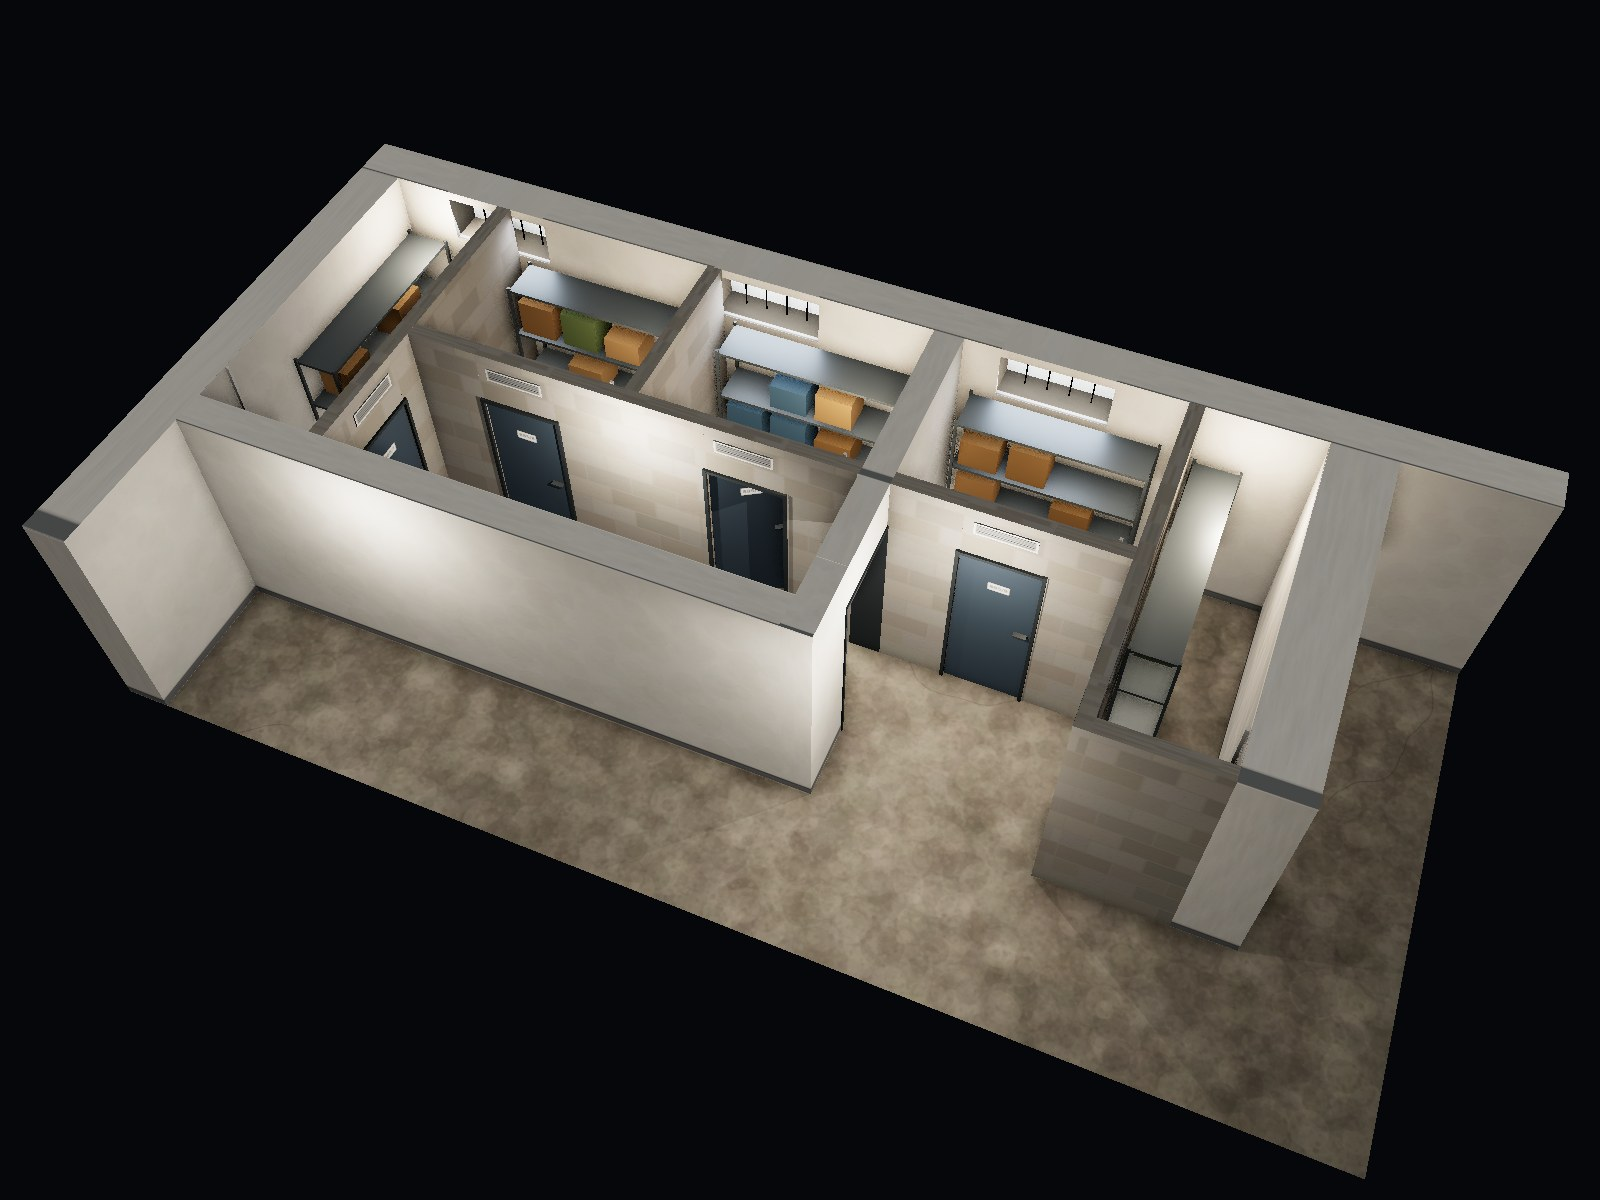
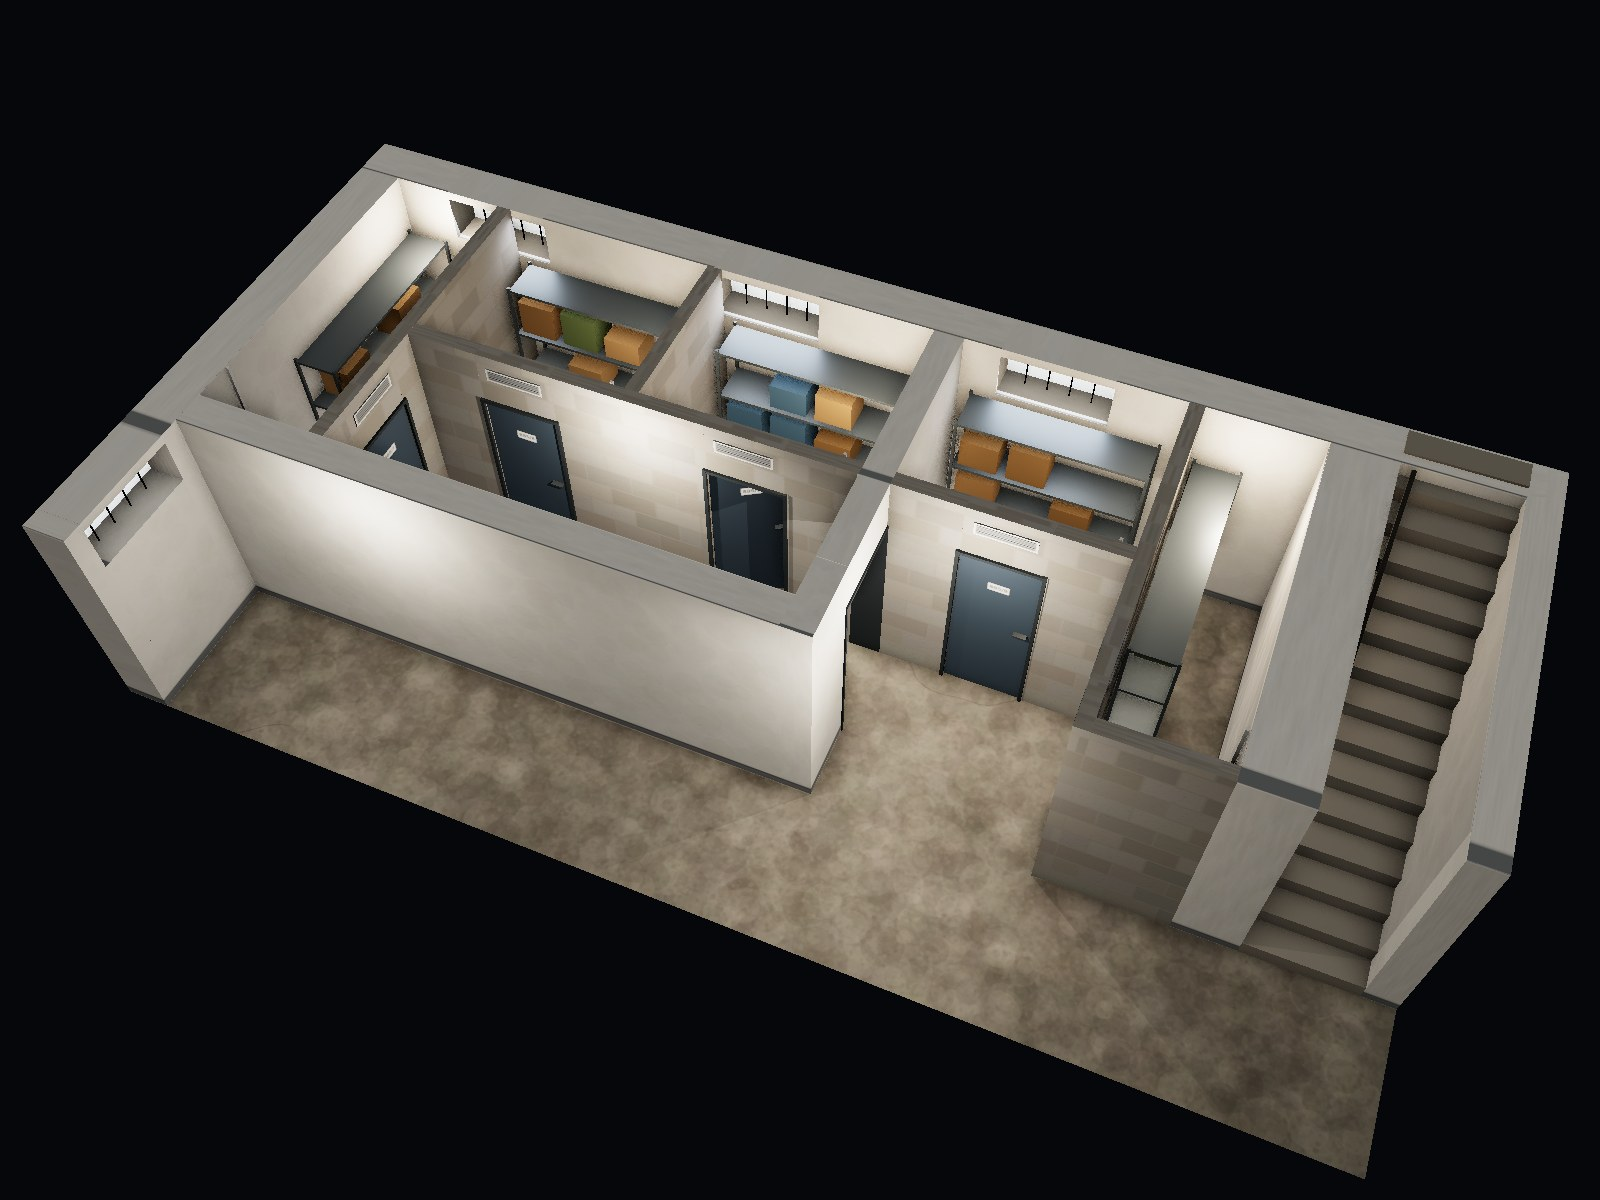
3D A1+A2: corridor C1 per Vizualizace kójí 2 (B1/B2 entrances, west window, stairs S1, new C1 view)
Claude-Session: https://claude.ai/code/session_01PwTnPep7yYfhi5YvdxRW3v

Changed region(s): [[0.7812, 0.3392, 1.0, 0.8633], [0.0, 0.3392, 0.125, 0.4625]]

diff --git a/vizualizace3d-a1a2.html b/vizualizace3d-a1a2.html
@@ -34,10 +34,11 @@
         <p><b>A1:</b> 885/1 (1,20 × 3,45 m), 885/6 a 885/8 (2,25 × 1,85 m) – všechny kolem 4,15 m². <b>A2:</b> 885/9 (2,20 × 1,85 m), 885/2 (1,15 × 3,65 m).</p>
         <p>Dřevěná příčka před A2 vybourána, přístup z chodby C1 otevřený v celé šířce 885/9 (2,20 m); do A1 průchodem 1,00 m bez dveří. Příčky z tvárnic 15 cm až ke stropu, dveře 0,80 m, nad dveřmi větrací mřížka 600 × 150 mm.</p>
         <p>Elektro podle Elektroinstalace 2: v každé kóji zásuvka 230 V (B16, vlastní elektroměr) a svítidlo LED, společné osvětlení přístupů a chodby s čidlem pohybu, kabelové lišty pod stropem z RS v A3.</p>
-        <p class="note">Vizualizace podle Návrhu cílového stavu 2 a přesného zaměření: A1 6,00 × 3,449 m, A2 3,50 × 3,80 m, chodba C1 1,55 m, světlá výška 2,60 m, okna 1,13 × 0,50 m s parapetem ve 2,00 m. Myší lze pohled otáčet a přibližovat.</p>
+        <p class="note">Vizualizace podle Návrhu cílového stavu 2 a přesného zaměření: A1 6,00 × 3,449 m, A2 3,50 × 3,80 m, chodba C1 1,55 m, světlá výška 2,60 m, okna 1,13 × 0,50 m s parapetem ve 2,00 m. Chodba C1 se vstupy do B1 a B2, oknem na západním konci a schodištěm S1. Myší lze pohled otáčet a přibližovat.</p>
         <div class="buttons">
             <button data-view="entry" class="active">Pohled od vstupu</button>
             <button data-view="a1">Přístup v A1</button>
+            <button data-view="c1">Chodba C1</button>
             <button data-view="cutaway">Řez shora</button>
             <a href="/">← Zpět na plánek</a>
         </div>
@@ -61,6 +62,7 @@
         const XEND = OX + A2W + 0.62 + 1.4;            // kus chodby za A2 (u schodiště)
         const WIN_SILL = 2.0, WIN_TOP = 2.5;           // okna 1,13 × 0,50 m, parapet 2,00 m
         const WINDOWS = [[0.60, 1.73], [3.67, 4.80], [OX + 0.38, OX + 1.51]];
+        const C1W = [4.01, 5.14];                      // okno na západním konci chodby C1
         const DOOR_W = 0.80, DOOR_H = 1.97;
 
         const params = new URLSearchParams(location.search);
@@ -214,13 +216,40 @@
         // ---------- Stávající stěny (omítka) ----------
         const T = 0.45;
         wall(-T, -T, XEND, 0, 'plaster', WINDOWS.map(([a, b]) => ({ a, b, y0: WIN_SILL, h: WIN_TOP })), { cut: false }); // severní obvodová s okny
-        wall(-T, 0, 0, C1Z + C1D, 'plaster');                                          // západní obvodová
+        wall(-T, 0, 0, C1Z + C1D, 'plaster', [{ a: C1W[0], b: C1W[1], y0: WIN_SILL, h: WIN_TOP }]); // západní obvodová, okno na konci C1
         wall(A1W, 0, OX, C1Z, 'plaster', [{ a: 2.0, b: 3.0, h: 2.0 }]);                // A1 | A2 (0,30 m) – průchod 1,00 m v místě současných dveří
         wall(0, D1, A1W, C1Z, 'plaster');                                              // A1 | C1 – nosná zeď 0,35 m
         // A2 | C1: dřevěná příčka vybourána, v šířce 885/9 (1,85 m) zcela otevřeno do chodby
         wall(OX + A2W, 0, OX + A2W + 0.62, C1Z, 'plaster');                            // A2 | schodiště (0,62 m)
-        wall(0, C1Z + C1D, XEND, C1Z + C1D + 0.3, 'plaster', [], { cut: true });       // jižní stěna chodby C1
+        // jižní stěna chodby C1 (0,78 m) se vstupy do B1 (0,90 m) a B2 (1,00 m)
+        wall(0, C1Z + C1D, XEND, C1Z + C1D + 0.78, 'plaster', [{ a: 0.90, b: 1.80, h: DOOR_H }, { a: 8.55, b: 9.55, h: 2.0 }], { cut: true });
+        // schodiště S1 (1,085 × 4,20 m) stoupající od chodby C1 k severu, zeď S1 | A3
+        const SX0 = OX + A2W + 0.62, SX1 = SX0 + 1.085;
+        wall(SX1, -T, XEND, C1Z, 'plaster');
+        const stepMat = std({ color: '#a39d93', roughness: 0.95 });
+        for (let i = 0; i < 15; i++) {
+            const top = (i + 1) * 0.175, z1 = C1Z - i * 0.28;
+            if (top > H + 0.3) break;
+            add(box(SX1 - SX0, top, 0.28), stepMat, (SX0 + SX1) / 2, top / 2, z1 - 0.14);
+        }
+        // madlo na západní stěně schodiště
+        const rail = add(box(0.04, 0.04, 3.4), std({ color: '#6d6a64', metalness: 0.5, roughness: 0.5 }), SX0 + 0.06, 0, C1Z - 1.9);
+        rail.rotation.x = Math.atan(0.175 / 0.28); rail.position.y = 0.9 + 1.9 * 0.175 / 0.28;
         wall(XEND, C1Z, XEND + PT, C1Z + C1D, 'plaster', [], { cut: true });
+        // dveře do B1 (stávající, zavřené) a mřížová vrata do B2
+        add(box(0.88, DOOR_H - 0.02, 0.04), std({ color: '#8a6a4a', roughness: 0.8 }), 1.35, DOOR_H / 2, C1Z + C1D + 0.06, { cut: true });
+        const gate = std({ color: '#3d4247', metalness: 0.6, roughness: 0.5 });
+        add(box(1.0, 2.0, 0.02), std({ color: '#1e2124', roughness: 1 }), 9.05, 1.0, C1Z + C1D + 0.7, { cast: false, cut: true });
+        for (let k = 0; k <= 8; k++) add(box(0.02, 1.96, 0.02), gate, 8.57 + k * 0.12, 0.98, C1Z + C1D + 0.06, { cut: true });
+        [0.05, 0.98, 1.95].forEach(y => add(box(0.98, 0.03, 0.03), gate, 9.05, y, C1Z + C1D + 0.06, { cut: true }));
+        // okno na západním konci C1 (stejné jako v A1, A2)
+        {
+            const w = C1W[1] - C1W[0], cz = (C1W[0] + C1W[1]) / 2, cy = (WIN_SILL + WIN_TOP) / 2;
+            const g = new THREE.Mesh(new THREE.PlaneGeometry(w, WIN_TOP - WIN_SILL), new THREE.MeshStandardMaterial({ color: '#dfe9e2', emissive: '#e8f0ff', emissiveIntensity: 1.4, roughness: 0.4 }));
+            g.position.set(-T + 0.08, cy, cz); g.rotation.y = Math.PI / 2; scene.add(g);
+            const bar = std({ color: '#2b2f33', metalness: 0.6, roughness: 0.5 });
+            for (let k = 1; k < 5; k++) add(box(0.012, WIN_TOP - WIN_SILL, 0.012), bar, -T + 0.2, cy, C1W[0] + k * w / 5);
+        }
         // okna: sklo s mříží
         WINDOWS.forEach(([a, b]) => {
             const w = b - a, cx = (a + b) / 2, cy = (WIN_SILL + WIN_TOP) / 2;
@@ -367,6 +396,7 @@
         controls.enableDamping = true;
         const VIEWS = {
             entry: { pos: [OX + 1.45, 1.6, 3.45], target: [OX - 1.5, 1.0, 2.5], fov: 80 },
+            c1: { pos: [XEND - 0.5, 1.6, C1Z + 0.8], target: [0, 1.2, C1Z + 0.8], fov: 70 },
             a1: { pos: [A1W - 0.2, 1.6, 2.9], target: [1.0, 1.0, 2.6], fov: 75 },
             cutaway: { pos: [XEND / 2 + 3.0, 12.5, C1Z + 6.5], target: [XEND / 2 - 0.6, 0, 1.7], fov: 44 }
         };
